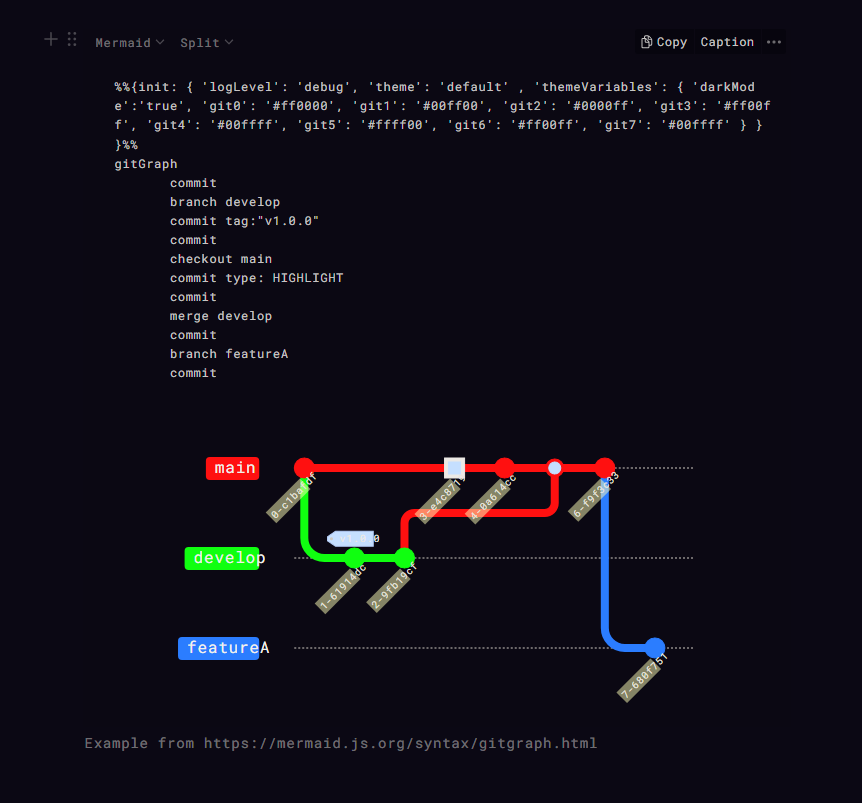
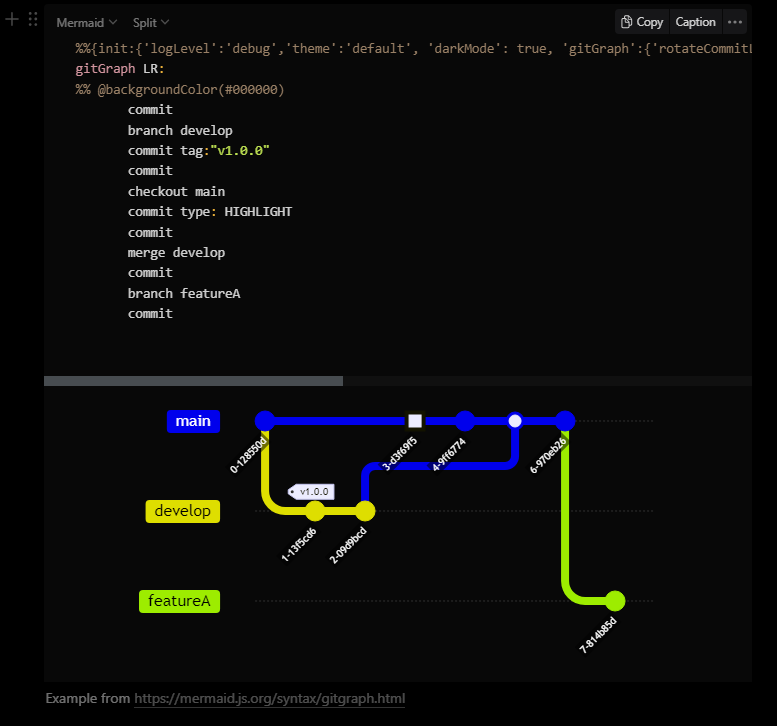
rename/replaced database deprecated query methods from v0.6.0. `query` -> `_query`, `query_pages` -> `_query_pages` `query_all` -> `query`, `query_all_pages` -> `query_pages` add title param to database create method

diff --git a/notion/api/notiondatabase.py b/notion/api/notiondatabase.py
@@ -96,6 +96,7 @@ class Database(_TokenBlockMixin):
         cls,
         parent_instance: "Page",
         database_title: str,
+        title_column: Optional[str] = None,
         name_column: Optional[str] = None,
         *,
         is_inline: Optional[bool] = False,
@@ -109,26 +110,34 @@ class Database(_TokenBlockMixin):
         ---
         :param parent_instance: (required) Parent instance for a database must be a Page.
         :param database_title: (required) Database Title.
-        :param name_column: (required) Name for column containing page names. Defaults to "Name".
+        :param title_column: (required) Name for default title column. Defaults to "title".
         :param is_inline: (optional) If true, the database will be displayed inline in the parent page.
         :param description: (optional) Description of the database.
         :param cover_url: (optional) Url of image to use as cover.
         :param icon_url: (optional) Url of image to use as icon.
 
+        :param name_column: **deprecated** - This parameter is marked for removal.\
+                            (optional) Name for column containing page names.\
+                            Replaced with :param title_column:.
+
         https://developers.notion.com/reference/create-a-database
         """
+        title_column_name = title_column or name_column or "title"
+
         payload = build_payload(
             Parent.page(parent_instance.id),
             TitlePropertyValue([RichText(database_title)]),
-            Properties(TitlePropertyObject(name_column if name_column else "Name")),
+            Properties(propertyobjects.TitlePropertyObject(title_column_name)),
         )
 
         new_db_map = cls._post(parent_instance, cls._database_endpoint(), payload=payload)
-
         database = cls(new_db_map["id"])
-        database.logger.debug(
-            f"Database created in {parent_instance.__repr__()}. Url: {new_db_map['url']}"
-        )
+
+        if name_column is not None:
+            database.logger.warn(
+                "Param name_column is deprecated and marked for removal. "
+                "Use title_column instead."
+            )
 
         if is_inline:
             database.is_inline = is_inline
@@ -300,95 +309,6 @@ class Database(_TokenBlockMixin):
         filter: Optional[CompoundFilter | PropertyFilter | TimestampFilter] = None,
         sort: Optional[SortFilter] = None,
         filter_property_values: Optional[list[str]] = None,
-        page_size: Optional[int] = 100,
-        start_cursor: Optional[str] = None,
-    ) -> MutableMapping[str, Any]:
-        """
-        **query() method deprecated in > v0.5.2.**
-        **In a future update, this will be replaced with the new method `query_all()` added in v0.6.0 that iterates through all pages from results.**
-        **This method will still remain under a new name for anyone wanting the original request.**
-
-        Gets a list of Pages contained in the database, filtered/ordered to the filter conditions/sort criteria provided in request.
-        Responses from paginated endpoints contain a `next_cursor` property,
-        which can be used in a query payload to continue the list.
-
-        ---
-        :param filter: (optional) notion.query.compound.CompoundFilter or notion.query.propfilter.PropertyFilter
-        :param sort: (optional) notion.query.sort.SortFilter
-        :param page_size: (optional) The number of items from the full list desired in the response.\
-                           Default: 100 page_size Maximum: 100.
-        :param start_cursor: (optional) When supplied, returns a page of results starting after the cursor provided.\
-                              If not supplied, this endpoint will return the first page of results.
-        :param filter_property_values: (optional) Return only the selected properties.
-
-        https://developers.notion.com/reference/post-database-query
-        """
-        self.logger.warning(_QUERY_DEPRECATION_NOTICE)
-
-        payload: dict[str, Any] = {}
-        endpoint = self._database_endpoint(self.id, query=True)
-
-        if filter_property_values:
-            endpoint += "?"
-            for name in filter_property_values:
-                name_id = self[name].get("id")
-                endpoint += f"filter_properties={name_id}&"
-
-        if filter:
-            payload |= filter
-        if sort:
-            payload |= sort
-        if page_size:
-            payload |= {"page_size": page_size}
-        if start_cursor:
-            payload |= {"start_cursor": start_cursor}
-
-        return self._post(endpoint, payload=payload)
-
-    def query_pages(
-        self,
-        *,
-        filter: Optional[CompoundFilter | PropertyFilter | TimestampFilter] = None,
-        sort: Optional[SortFilter] = None,
-        page_size: Optional[int] = 100,
-        start_cursor: Optional[str] = None,
-    ) -> list[Page]:
-        """
-        **query_pages() method deprecated in > v0.5.2.**
-        **In a future update, this will be replaced with the new method `query_all_pages()` added in v0.6.0 that iterates through all pages from results.**
-
-        Runs Database.query(...) but returns a notion.Page object for every page_id in the query response.
-
-        :param filter: (optional) notion.query.compound.CompoundFilter or notion.query.propfilter.PropertyFilter
-        :param sort: (optional) notion.query.sort.SortFilter
-        :param page_size: (optional) The number of items from the full list desired in the response.\
-                           Default: 100 page_size Maximum: 100.
-        :param start_cursor: (optional) When supplied, returns a page of results starting after the cursor provided.\
-                              If not supplied, this endpoint will return the first page of results.
-
-        :return: list of notion.Page objects
-
-        https://developers.notion.com/reference/post-database-query
-        """
-        self.logger.warning(_QUERY_PAGES_DEPRECATION_NOTICE)
-
-        query = self.query(
-            filter=filter,
-            sort=sort,
-            page_size=page_size,
-            start_cursor=start_cursor,
-        )
-
-        from notion.api.notionpage import Page
-
-        return [Page(_object["id"]) for _object in query.get("results", [])]
-
-    def query_all(
-        self,
-        *,
-        filter: Optional[CompoundFilter | PropertyFilter | TimestampFilter] = None,
-        sort: Optional[SortFilter] = None,
-        filter_property_values: Optional[list[str]] = None,
         max_page_size: Optional[int] = None,
     ) -> list[MutableMapping[str, Any]]:
         """
@@ -422,15 +342,15 @@ class Database(_TokenBlockMixin):
 
         return paginated_response_payload(self._post, endpoint, payload, max_page_size)
 
-    def query_all_pages(
+    def query_pages(
         self,
         *,
         filter: Optional[CompoundFilter | PropertyFilter | TimestampFilter] = None,
         sort: Optional[SortFilter] = None,
         max_page_size: Optional[int] = None,
-    ) -> list[Page]:
+    ) -> list["Page"]:
         """
-        Runs Database.query_all(...) but returns a notion.Page object for every page_id in the query response.
+        Runs Database.query(...) but returns a notion.Page object for every page_id in the query response.
 
         :param filter: (optional) notion.query.compound.CompoundFilter or notion.query.propfilter.PropertyFilter
         :param sort: (optional) notion.query.sort.SortFilter
@@ -441,14 +361,11 @@ class Database(_TokenBlockMixin):
 
         https://developers.notion.com/reference/post-database-query
         """
+        all_pages = self.query(filter=filter, sort=sort, max_page_size=max_page_size)
+
         from notion.api.notionpage import Page
 
-        return [
-            Page(row["id"])
-            for row in self.query_all(
-                filter=filter, sort=sort, max_page_size=max_page_size
-            )
-        ]
+        return list(map(lambda r: Page(r["id"]), all_pages))
 
     def dual_relation_column(
         self, property_name: str, /, database_id: str, synced_property_name: str
@@ -710,12 +627,96 @@ class Database(_TokenBlockMixin):
         Create or replace a `Person` property.
         https://developers.notion.com/reference/property-object#people
         """
-        self._update(Properties(PeoplePropertyObject(property_name)))
+        self._update(
+            Properties(propertyobjects.PeoplePropertyObject(property_name)),
+        )
 
+    def _query(
+        self,
+        *,
+        filter: Optional[CompoundFilter | PropertyFilter | TimestampFilter] = None,
+        sort: Optional[SortFilter] = None,
+        filter_property_values: Optional[list[str]] = None,
+        page_size: Optional[int] = 100,
+        start_cursor: Optional[str] = None,
+    ) -> MutableMapping[str, Any]:
+        """
+        **This method is deprecated since > v0.5.2.**
+        It's been replaced with the new query_pages() method that iterates through all results.
+        This is the original endpoint and will return a max of 100 pages, and a cursor to use in the next query if the results are greater than 100.
 
-_QUERY_DEPRECATION_NOTICE = """query() method deprecated in > v0.5.2. \
-In a future update, this will be replaced with new method `query_all()` added in v0.6.0 that iterates through all pages from results. \
-This method will still remain under a new name for anyone wanting the original request."""
+        ---
 
-_QUERY_PAGES_DEPRECATION_NOTICE = """query_pages() method deprecated in > v0.5.2. \
-In a future update, this will be replaced with new method `query_all_pages()` added in v0.6.0 that iterates through all pages from results."""
+        Gets a list of Pages contained in the database, filtered/ordered to the filter conditions/sort criteria provided in request.
+        Responses from paginated endpoints contain a `next_cursor` property,
+        which can be used in a query payload to continue the list.
+
+        ---
+        :param filter: (optional) notion.query.compound.CompoundFilter or notion.query.propfilter.PropertyFilter
+        :param sort: (optional) notion.query.sort.SortFilter
+        :param page_size: (optional) The number of items from the full list desired in the response.\
+                           Default: 100 page_size Maximum: 100.
+        :param start_cursor: (optional) When supplied, returns a page of results starting after the cursor provided.\
+                              If not supplied, this endpoint will return the first page of results.
+        :param filter_property_values: (optional) Return only the selected properties.
+
+        https://developers.notion.com/reference/post-database-query
+        """
+        payload: dict[str, Any] = {}
+        endpoint = self._database_endpoint(self.id, query=True)
+
+        if filter_property_values:
+            endpoint += "?"
+            for name in filter_property_values:
+                name_id = self[name].get("id")
+                endpoint += f"filter_properties={name_id}&"
+
+        if filter:
+            payload |= filter
+        if sort:
+            payload |= sort
+        if page_size:
+            payload |= {"page_size": page_size}
+        if start_cursor:
+            payload |= {"start_cursor": start_cursor}
+
+        return self._post(endpoint, payload=payload)
+
+    def _query_pages(
+        self,
+        *,
+        filter: Optional[CompoundFilter | PropertyFilter | TimestampFilter] = None,
+        sort: Optional[SortFilter] = None,
+        page_size: Optional[int] = 100,
+        start_cursor: Optional[str] = None,
+    ) -> list["Page"]:
+        """
+        **This method is deprecated since > v0.5.2.**
+        It's been replaced with the new query_pages() method that iterates through all results.
+        This is the original endpoint and will return a max of 100 pages, and a cursor to use in the next query if the results are greater than 100.
+
+        ---
+        
+        Runs Database.query(...) but returns a notion.Page object for every page_id in the query response.
+
+        :param filter: (optional) notion.query.compound.CompoundFilter or notion.query.propfilter.PropertyFilter
+        :param sort: (optional) notion.query.sort.SortFilter
+        :param page_size: (optional) The number of items from the full list desired in the response.\
+                           Default: 100 page_size Maximum: 100.
+        :param start_cursor: (optional) When supplied, returns a page of results starting after the cursor provided.\
+                              If not supplied, this endpoint will return the first page of results.
+
+        :return: list of notion.Page objects
+
+        https://developers.notion.com/reference/post-database-query
+        """
+        query = self._query(
+            filter=filter,
+            sort=sort,
+            page_size=page_size,
+            start_cursor=start_cursor,
+        )
+
+        from notion.api.notionpage import Page
+
+        return list(map(lambda r: Page(r["id"]), query['"results"']))

diff --git a/notion/api/_about.py b/notion/api/_about.py
@@ -34,7 +34,7 @@ __all__: Sequence[str] = (
 __notion_version__: Final[str] = "2022-06-28"
 __content_type__: Final[str] = "application/json"
 __base_url__: Final[str] = "https://api.notion.com/v1/"
-__version__: Final[str] = "0.6.7"
+__version__: Final[str] = "0.7.0"
 __package_url__: Final[str] = "https://pypi.org/pypi/notion-api/"
 __package_json__: Final[str] = "https://pypi.org/pypi/notion-api/json"
 

diff --git a/README.md b/README.md
@@ -179,8 +179,9 @@ Below is an example using `CodeBlock`. The others are `TableBlock`, `EquationBlo
 code_block = notion.CodeBlock("84c5721d8a954667902a757f0033f9e0")
 
 git_graph = r"""
-%%{init: { 'logLevel': 'debug', 'theme': 'default' , 'themeVariables': { 'darkMode':'true', 'git0': '#ff0000', 'git1': '#00ff00', 'git2': '#0000ff', 'git3': '#ff00ff', 'git4': '#00ffff', 'git5': '#ffff00', 'git6': '#ff00ff', 'git7': '#00ffff' } } }%%
-gitGraph
+%%{init:{'logLevel':'debug','theme':'default', 'darkMode': true, 'gitGraph':{'rotateCommitLabel':true}, 'themeVariables': {'commitLabelColor':'#ffffff','commitLabelBackground':'#000000', 'tagLabelFontSize': '10px'}}}%%
+gitGraph LR:
+%% @backgroundColor(#000000)
        commit
        branch develop
        commit tag:"v1.0.0"
@@ -285,8 +286,13 @@ To build nested filters, use `notion.query.CompoundFilter` and group property fi
 The database method `query()` will return the raw response from the API.  
 The method `query_pages()` will extract the page ID for each object in the array of results, and return a list of `notion.Page` objects.
 
-> note: in v0.6.0, new query methods were added: `query_all()` & `query_all_pages()` - these handle pagination, and instead of providing the `next_cursor` and `has_more` keys,
-> they will iterate through all the results, or up to the `max_page_size` paramater. These 2 methods will replace the original ones in a later update.
+> [!IMPORTANT]  
+> In v0.6.0, the methods `query` and `query_pages` were deprecated and 2 new methods, `query_all()` & `query_all_pages()` were added.
+> The new methods would iterate through all results, up to the `max_page_size` parameter, instead of returning a `next_cursor` key and the 100 page max from the original endpoints.
+>
+> In v0.7.0 the original deprecated methods were renamed to `_query` and `_query_pages` (left incase anyone wanted the original endpoints),
+> and the new query methods were renamed to take their place: `query_all` -> `query`, `query_all_pages` -> `query_pages`
+>
 
 ```py
 import os
@@ -319,7 +325,6 @@ query_sort = query.SortFilter(
 query_result = new_database.query(
     filter=query_filter,
     sort=query_sort,
-    page_size=5,
     filter_property_values=["name", "options"],
 )
 ```
@@ -370,13 +375,16 @@ Possible errors are:
 - `NotionUnauthorized`
 - `NotionValidationError`
 
-A common error to look out for is `NotionObjectNotFound`. This error is often raised because your bot has not been added as a connection to the page.
-
-<p align="center">
-    <img src="https://github.com/ayvi-0001/notion-api/blob/main/examples/images/directory_add_connections.png?raw=true">  
-</p>
-
-By default, a bot will have access to the children of any Parent object it has access too. Be sure to double check this connection when moving pages.  
-If you're working on a page that your token has access to via its parent page/database, but you never explicitly granted access to the child page -  and you later move that child page out, then it will lose access.
-
+> [!TIP]
+> A common error to look out for is `NotionObjectNotFound`.\
+> This error is often raised because your bot has not been added as a connection to the page.
+>
+> <p align="center">
+>     <img src="https://github.com/ayvi-0001/notion-api/blob/main/examples/images/directory_add_connections.png?raw=true">  
+> </p>
+>
+> By default, a bot will have access to the children of any Parent object it has access too. Be sure to double check this connection when moving pages.  
+>
+> If you're working on a page that your token has access to via its parent page/database, but you never explicitly granted access to the child page -  and you later move that child page out, then it will lose access.
+>
 ---
